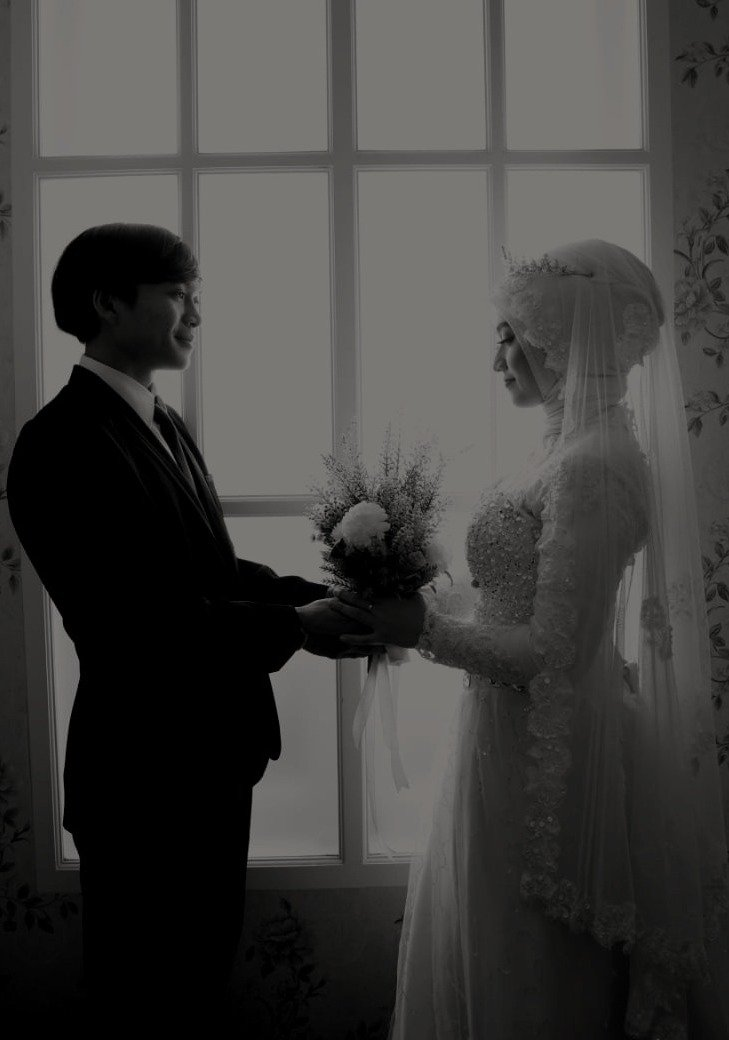
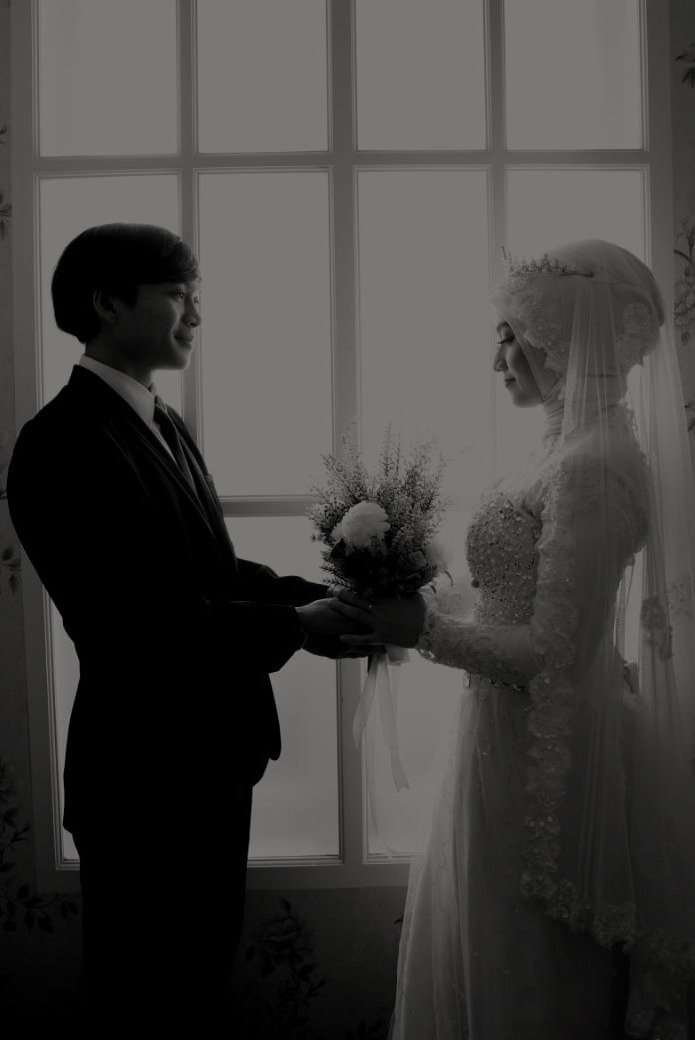
change name

diff --git a/index.html b/index.html
@@ -29,6 +29,7 @@
           background-repeat: no-repeat center center fixed;
           background-size: cover;
           background-attachment: fixed;
+          background-position: center top;
 }
 </style>
 <body>
@@ -60,7 +61,7 @@
                     <img src="assets/img/ring.png" alt="" />
                </div>
                <div class="">
-                    <h2> Regi <span style="color:#edb142">&</span> Irwan </h2>
+                    <h2> Regita <span style="color:#edb142">&</span> Irwan </h2>
                </div>
                <div class="countdown-title">
                     <h3> Countdown To Wedding Day</h3>
